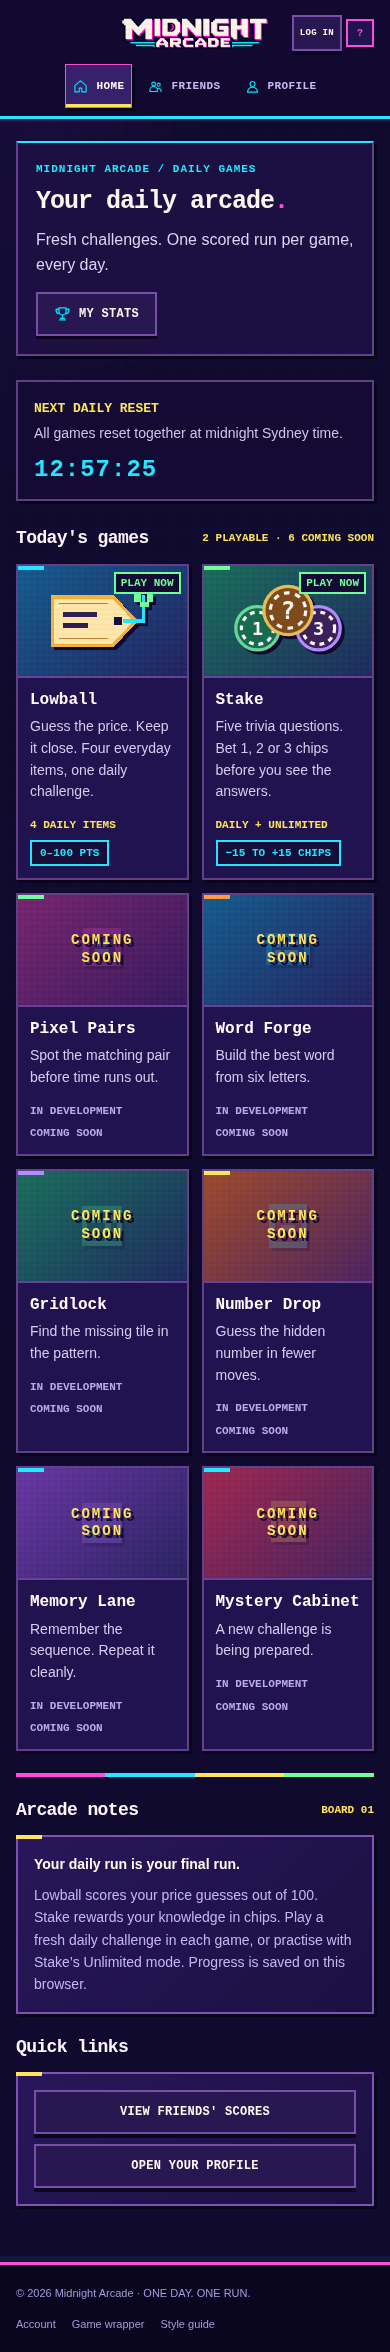
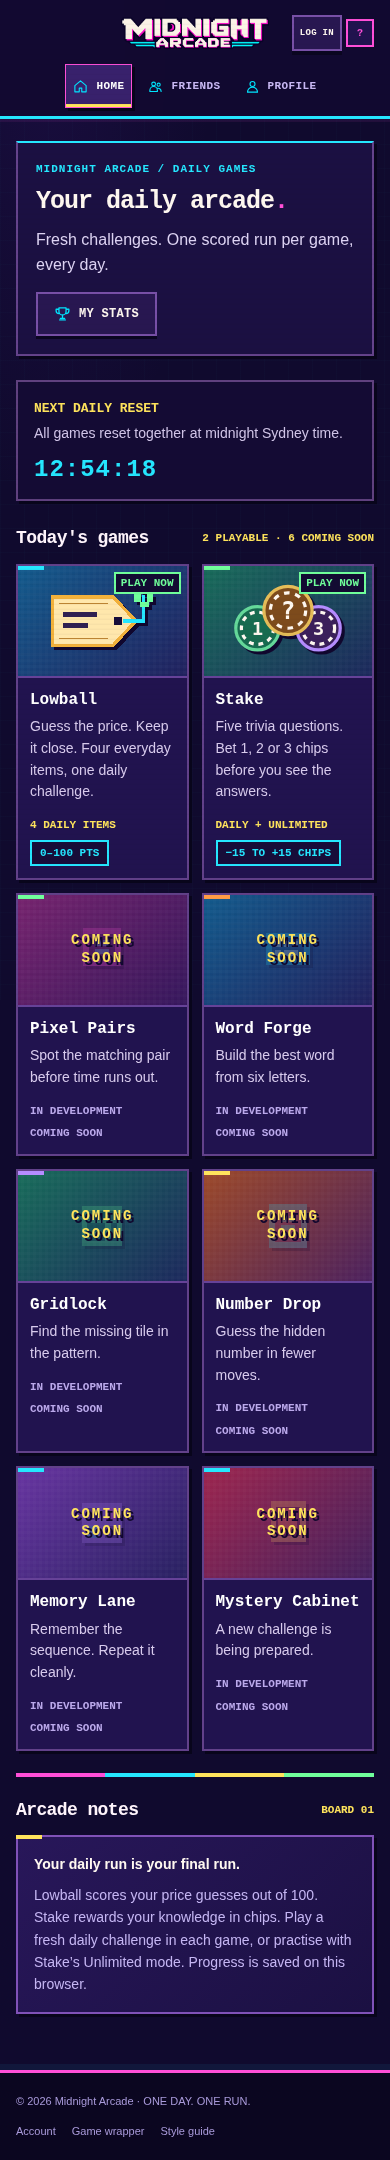
Remove homepage Quick links section

diff --git a/index.html b/index.html
@@ -1,3 +1,3 @@
 <!doctype html><html lang="en-AU"><head><meta charset="utf-8"><meta name="viewport" content="width=device-width,initial-scale=1"><meta name="theme-color" content="#0d0c10"><meta name="description" content="Midnight Arcade daily puzzle arcade. One run per game, every day."><title>Today’s runs · Midnight Arcade</title><link rel="icon" type="image/png" href="assets/midnight-moon-icon.png"><link rel="stylesheet" href="styles.css"><script defer src="daily-clock.js"></script></head><body class="home-page"><header class="site-header"><div class="wrap header-inner"><nav class="nav" aria-label="Main navigation"><a href="index.html" aria-current="page"><img src="assets/icons/home.svg" alt="">Home</a><a href="friends.html"><img src="assets/icons/friends.svg" alt="">Friends</a><a href="profile.html"><img src="assets/icons/profile.svg" alt="">Profile</a></nav><a class="brand" href="index.html"><span class="brand-logo" role="img" aria-label="Midnight Arcade"><img class="brand-logo-art" src="assets/cabinet-badge-logo.png" alt="" width="2172" height="724"></span></a><div class="header-user"><a class="button secondary small" href="login.html">Log in</a><div class="avatar" aria-label="Guest profile">?</div></div></div></header><main class="page"><div class="wrap"><section class="home-intro" aria-labelledby="home-title"><div><p class="eyebrow">MIDNIGHT ARCADE / DAILY GAMES</p><h1 id="home-title">Your daily arcade<span class="pink-text">.</span></h1><p class="home-intro-copy">Fresh challenges. One scored run per game, every day.</p></div><a class="button secondary" href="profile.html"><img src="assets/icons/trophy.svg" width="17" alt=""> My stats</a></section>
 <section class="reset-bar home-reset" aria-label="Universal daily reset"><div><strong>NEXT DAILY RESET</strong><p>All games reset together at midnight Sydney time.</p></div><strong id="daily-reset-countdown" data-daily-countdown role="timer" aria-label="Time until the next daily reset" aria-live="off">--:--:--</strong></section>
-<div class="section-head"><h2>Today's games</h2><span class="section-meta">2 PLAYABLE · 6 COMING SOON</span></div><section class="game-grid" id="daily-games" aria-label="Daily games"><a class="game-card panel card-lowball" href="games/lowball/index.html" aria-label="Lowball: Play now"><div class="game-art art-blue"><svg xmlns="http://www.w3.org/2000/svg" viewBox="0 0 160 112" shape-rendering="crispEdges" aria-hidden="true"><path d="M18 26h76l28 30-28 30H18z" fill="#ffe7ac" stroke="#f2b13b" stroke-width="4"/><path d="M27 34h61M27 78h61" stroke="#bd8532" stroke-width="2"/><rect x="32" y="45" width="42" height="6" fill="#302052"/><rect x="32" y="59" width="30" height="6" fill="#302052"/><rect x="95" y="51" width="10" height="10" fill="#160d3a"/><path d="M106 56h26V24" fill="none" stroke="#25e7ff" stroke-width="4"/><path d="M127 16h12v6h-12zM136 22h8v10h-8zM127 32h12v6h-12zM120 22h8v10h-8z" fill="#70ff9b"/></svg><span class="card-status live">PLAY NOW</span></div><div class="game-card-content"><h3>Lowball</h3><p>Guess the price. Keep it close. Four everyday items, one daily challenge.</p><div class="game-meta"><span class="score">4 DAILY ITEMS</span><span class="score-badge tier-good">0–100 PTS</span></div></div></a><a class="game-card panel card-stake" href="games/stake/index.html" aria-label="Stake: Play now"><div class="game-art art-green"><svg xmlns="http://www.w3.org/2000/svg" viewBox="0 0 160 112" aria-hidden="true"><g stroke-width="4"><circle cx="42" cy="65" r="27" fill="#176b50" stroke="#65d99a"/><circle cx="42" cy="65" r="20" fill="none" stroke="#fff8f0" stroke-dasharray="6 6"/><circle cx="118" cy="65" r="27" fill="#3b205b" stroke="#b58cff"/><circle cx="118" cy="65" r="20" fill="none" stroke="#fff8f0" stroke-dasharray="6 6"/><circle cx="80" cy="43" r="30" fill="#7d4b1c" stroke="#e6bd58"/><circle cx="80" cy="43" r="22" fill="none" stroke="#fff8f0" stroke-dasharray="7 7"/></g><g fill="#fff8f0" font-family="monospace" font-weight="bold" text-anchor="middle"><text x="42" y="73" font-size="23">1</text><text x="118" y="73" font-size="23">3</text><text x="80" y="53" font-size="30">?</text></g></svg><span class="card-status live">PLAY NOW</span></div><div class="game-card-content"><h3>Stake</h3><p>Five trivia questions. Bet 1, 2 or 3 chips before you see the answers.</p><div class="game-meta"><span class="score">DAILY + UNLIMITED</span><span class="score-badge tier-good">−15 TO +15 CHIPS</span></div></div></a><a class="game-card panel card-coming-soon" href="games/pixel-pairs/index.html" aria-label="Pixel Pairs: Coming soon — preview game layout"><div class="game-art art-pink"><svg xmlns="http://www.w3.org/2000/svg" viewBox="0 0 96 96" shape-rendering="crispEdges"><rect x="22" y="18" width="52" height="52" fill="#ff4fd8"/><rect x="30" y="26" width="36" height="36" fill="#160d3a"/><path d="M38 34h8v8h-8zM50 34h8v8h-8zM38 46h20v8H38z" fill="#25e7ff"/></svg><span class="coming-soon-art">COMING<br>SOON</span></div><div class="game-card-content"><h3>Pixel Pairs</h3><p>Spot the matching pair before time runs out.</p><div class="game-meta"><span>IN DEVELOPMENT</span><span>COMING SOON</span></div></div></a><a class="game-card panel card-coming-soon" href="games/word-forge/index.html" aria-label="Word Forge: Coming soon — preview game layout"><div class="game-art art-blue"><svg xmlns="http://www.w3.org/2000/svg" viewBox="0 0 96 96" shape-rendering="crispEdges"><rect x="18" y="24" width="60" height="44" fill="#25e7ff"/><rect x="26" y="32" width="44" height="28" fill="#113c76"/><path d="M30 36h8v8h-8zM42 36h8v8h-8zM54 36h8v8h-8zM30 48h8v8h-8zM42 48h20v8H42z" fill="#fff8f0"/></svg><span class="coming-soon-art">COMING<br>SOON</span></div><div class="game-card-content"><h3>Word Forge</h3><p>Build the best word from six letters.</p><div class="game-meta"><span>IN DEVELOPMENT</span><span>COMING SOON</span></div></div></a><a class="game-card panel card-coming-soon" href="games/gridlock/index.html" aria-label="Gridlock: Coming soon — preview game layout"><div class="game-art art-green"><svg xmlns="http://www.w3.org/2000/svg" viewBox="0 0 96 96" shape-rendering="crispEdges"><rect x="20" y="20" width="56" height="56" fill="#70ff9b"/><path d="M28 28h12v12H28zM44 28h24v12H44zM28 44h24v12H28zM60 44h8v24h-8zM28 60h24v8H28z" fill="#11554b"/></svg><span class="coming-soon-art">COMING<br>SOON</span></div><div class="game-card-content"><h3>Gridlock</h3><p>Find the missing tile in the pattern.</p><div class="game-meta"><span>IN DEVELOPMENT</span><span>COMING SOON</span></div></div></a><a class="game-card panel card-coming-soon" href="games/number-drop/index.html" aria-label="Number Drop: Coming soon — preview game layout"><div class="game-art art-orange"><svg xmlns="http://www.w3.org/2000/svg" viewBox="0 0 96 96" shape-rendering="crispEdges"><rect x="22" y="18" width="52" height="60" fill="#25e7ff"/><rect x="30" y="26" width="36" height="44" fill="#6d2a7c"/><path d="M38 34h8v8h-8zM50 34h8v8h-8zM38 46h20v8H38zM38 58h8v4h-8z" fill="#25e7ff"/></svg><span class="coming-soon-art">COMING<br>SOON</span></div><div class="game-card-content"><h3>Number Drop</h3><p>Guess the hidden number in fewer moves.</p><div class="game-meta"><span>IN DEVELOPMENT</span><span>COMING SOON</span></div></div></a><a class="game-card panel card-coming-soon" href="games/memory-lane/index.html" aria-label="Memory Lane: Coming soon — preview game layout"><div class="game-art art-purple"><svg xmlns="http://www.w3.org/2000/svg" viewBox="0 0 96 96" shape-rendering="crispEdges"><rect x="20" y="20" width="56" height="56" fill="#b58cff"/><rect x="28" y="28" width="16" height="16" fill="#25114f"/><rect x="52" y="28" width="16" height="16" fill="#ff4fd8"/><rect x="28" y="52" width="16" height="16" fill="#25e7ff"/><rect x="52" y="52" width="16" height="16" fill="#25114f"/></svg><span class="coming-soon-art">COMING<br>SOON</span></div><div class="game-card-content"><h3>Memory Lane</h3><p>Remember the sequence. Repeat it cleanly.</p><div class="game-meta"><span>IN DEVELOPMENT</span><span>COMING SOON</span></div></div></a><a class="game-card panel card-coming-soon" href="games/mystery-cabinet/index.html" aria-label="Mystery Cabinet: Coming soon — preview game layout"><div class="game-art art-red"><svg xmlns="http://www.w3.org/2000/svg" viewBox="0 0 96 96" shape-rendering="crispEdges"><rect x="24" y="18" width="48" height="56" fill="#ffe45c"/><rect x="32" y="26" width="32" height="40" fill="#160d3a"/><path d="M38 42v-6a9 9 0 0 1 18 0v6M34 42h26v18H34z" fill="#ff9c45"/></svg><span class="coming-soon-art">COMING<br>SOON</span></div><div class="game-card-content"><h3>Mystery Cabinet</h3><p>A new challenge is being prepared.</p><div class="game-meta"><span>IN DEVELOPMENT</span><span>COMING SOON</span></div></div></a></section><div class="pixel-rule"></div><section class="two-col"><div><div class="section-head" style="margin-top:0"><h2>Arcade notes</h2><span class="section-meta">BOARD 01</span></div><div class="panel panel-pad"><p style="color:var(--text);font-weight:700;margin-bottom:8px">Your daily run is your final run.</p><p style="font-size:14px;margin:0">Lowball scores your price guesses out of 100. Stake rewards your knowledge in chips. Play a fresh daily challenge in each game, or practise with Stake’s Unlimited mode. Progress is saved on this browser.</p></div></div><div><div class="section-head" style="margin-top:0"><h2>Quick links</h2></div><div class="panel panel-pad" style="display:grid;gap:10px"><a class="button secondary" href="friends.html">View friends' scores</a><a class="button secondary" href="profile.html">Open your profile</a></div></div></section></div></main><footer class="site-footer"><div class="wrap footer-inner"><span>© 2026 Midnight Arcade · ONE DAY. ONE RUN.</span><div class="footer-links"><a href="login.html">Account</a><a href="game.html">Game wrapper</a><a href="style-guide.html">Style guide</a></div></div></footer></body></html>
+<div class="section-head"><h2>Today's games</h2><span class="section-meta">2 PLAYABLE · 6 COMING SOON</span></div><section class="game-grid" id="daily-games" aria-label="Daily games"><a class="game-card panel card-lowball" href="games/lowball/index.html" aria-label="Lowball: Play now"><div class="game-art art-blue"><svg xmlns="http://www.w3.org/2000/svg" viewBox="0 0 160 112" shape-rendering="crispEdges" aria-hidden="true"><path d="M18 26h76l28 30-28 30H18z" fill="#ffe7ac" stroke="#f2b13b" stroke-width="4"/><path d="M27 34h61M27 78h61" stroke="#bd8532" stroke-width="2"/><rect x="32" y="45" width="42" height="6" fill="#302052"/><rect x="32" y="59" width="30" height="6" fill="#302052"/><rect x="95" y="51" width="10" height="10" fill="#160d3a"/><path d="M106 56h26V24" fill="none" stroke="#25e7ff" stroke-width="4"/><path d="M127 16h12v6h-12zM136 22h8v10h-8zM127 32h12v6h-12zM120 22h8v10h-8z" fill="#70ff9b"/></svg><span class="card-status live">PLAY NOW</span></div><div class="game-card-content"><h3>Lowball</h3><p>Guess the price. Keep it close. Four everyday items, one daily challenge.</p><div class="game-meta"><span class="score">4 DAILY ITEMS</span><span class="score-badge tier-good">0–100 PTS</span></div></div></a><a class="game-card panel card-stake" href="games/stake/index.html" aria-label="Stake: Play now"><div class="game-art art-green"><svg xmlns="http://www.w3.org/2000/svg" viewBox="0 0 160 112" aria-hidden="true"><g stroke-width="4"><circle cx="42" cy="65" r="27" fill="#176b50" stroke="#65d99a"/><circle cx="42" cy="65" r="20" fill="none" stroke="#fff8f0" stroke-dasharray="6 6"/><circle cx="118" cy="65" r="27" fill="#3b205b" stroke="#b58cff"/><circle cx="118" cy="65" r="20" fill="none" stroke="#fff8f0" stroke-dasharray="6 6"/><circle cx="80" cy="43" r="30" fill="#7d4b1c" stroke="#e6bd58"/><circle cx="80" cy="43" r="22" fill="none" stroke="#fff8f0" stroke-dasharray="7 7"/></g><g fill="#fff8f0" font-family="monospace" font-weight="bold" text-anchor="middle"><text x="42" y="73" font-size="23">1</text><text x="118" y="73" font-size="23">3</text><text x="80" y="53" font-size="30">?</text></g></svg><span class="card-status live">PLAY NOW</span></div><div class="game-card-content"><h3>Stake</h3><p>Five trivia questions. Bet 1, 2 or 3 chips before you see the answers.</p><div class="game-meta"><span class="score">DAILY + UNLIMITED</span><span class="score-badge tier-good">−15 TO +15 CHIPS</span></div></div></a><a class="game-card panel card-coming-soon" href="games/pixel-pairs/index.html" aria-label="Pixel Pairs: Coming soon — preview game layout"><div class="game-art art-pink"><svg xmlns="http://www.w3.org/2000/svg" viewBox="0 0 96 96" shape-rendering="crispEdges"><rect x="22" y="18" width="52" height="52" fill="#ff4fd8"/><rect x="30" y="26" width="36" height="36" fill="#160d3a"/><path d="M38 34h8v8h-8zM50 34h8v8h-8zM38 46h20v8H38z" fill="#25e7ff"/></svg><span class="coming-soon-art">COMING<br>SOON</span></div><div class="game-card-content"><h3>Pixel Pairs</h3><p>Spot the matching pair before time runs out.</p><div class="game-meta"><span>IN DEVELOPMENT</span><span>COMING SOON</span></div></div></a><a class="game-card panel card-coming-soon" href="games/word-forge/index.html" aria-label="Word Forge: Coming soon — preview game layout"><div class="game-art art-blue"><svg xmlns="http://www.w3.org/2000/svg" viewBox="0 0 96 96" shape-rendering="crispEdges"><rect x="18" y="24" width="60" height="44" fill="#25e7ff"/><rect x="26" y="32" width="44" height="28" fill="#113c76"/><path d="M30 36h8v8h-8zM42 36h8v8h-8zM54 36h8v8h-8zM30 48h8v8h-8zM42 48h20v8H42z" fill="#fff8f0"/></svg><span class="coming-soon-art">COMING<br>SOON</span></div><div class="game-card-content"><h3>Word Forge</h3><p>Build the best word from six letters.</p><div class="game-meta"><span>IN DEVELOPMENT</span><span>COMING SOON</span></div></div></a><a class="game-card panel card-coming-soon" href="games/gridlock/index.html" aria-label="Gridlock: Coming soon — preview game layout"><div class="game-art art-green"><svg xmlns="http://www.w3.org/2000/svg" viewBox="0 0 96 96" shape-rendering="crispEdges"><rect x="20" y="20" width="56" height="56" fill="#70ff9b"/><path d="M28 28h12v12H28zM44 28h24v12H44zM28 44h24v12H28zM60 44h8v24h-8zM28 60h24v8H28z" fill="#11554b"/></svg><span class="coming-soon-art">COMING<br>SOON</span></div><div class="game-card-content"><h3>Gridlock</h3><p>Find the missing tile in the pattern.</p><div class="game-meta"><span>IN DEVELOPMENT</span><span>COMING SOON</span></div></div></a><a class="game-card panel card-coming-soon" href="games/number-drop/index.html" aria-label="Number Drop: Coming soon — preview game layout"><div class="game-art art-orange"><svg xmlns="http://www.w3.org/2000/svg" viewBox="0 0 96 96" shape-rendering="crispEdges"><rect x="22" y="18" width="52" height="60" fill="#25e7ff"/><rect x="30" y="26" width="36" height="44" fill="#6d2a7c"/><path d="M38 34h8v8h-8zM50 34h8v8h-8zM38 46h20v8H38zM38 58h8v4h-8z" fill="#25e7ff"/></svg><span class="coming-soon-art">COMING<br>SOON</span></div><div class="game-card-content"><h3>Number Drop</h3><p>Guess the hidden number in fewer moves.</p><div class="game-meta"><span>IN DEVELOPMENT</span><span>COMING SOON</span></div></div></a><a class="game-card panel card-coming-soon" href="games/memory-lane/index.html" aria-label="Memory Lane: Coming soon — preview game layout"><div class="game-art art-purple"><svg xmlns="http://www.w3.org/2000/svg" viewBox="0 0 96 96" shape-rendering="crispEdges"><rect x="20" y="20" width="56" height="56" fill="#b58cff"/><rect x="28" y="28" width="16" height="16" fill="#25114f"/><rect x="52" y="28" width="16" height="16" fill="#ff4fd8"/><rect x="28" y="52" width="16" height="16" fill="#25e7ff"/><rect x="52" y="52" width="16" height="16" fill="#25114f"/></svg><span class="coming-soon-art">COMING<br>SOON</span></div><div class="game-card-content"><h3>Memory Lane</h3><p>Remember the sequence. Repeat it cleanly.</p><div class="game-meta"><span>IN DEVELOPMENT</span><span>COMING SOON</span></div></div></a><a class="game-card panel card-coming-soon" href="games/mystery-cabinet/index.html" aria-label="Mystery Cabinet: Coming soon — preview game layout"><div class="game-art art-red"><svg xmlns="http://www.w3.org/2000/svg" viewBox="0 0 96 96" shape-rendering="crispEdges"><rect x="24" y="18" width="48" height="56" fill="#ffe45c"/><rect x="32" y="26" width="32" height="40" fill="#160d3a"/><path d="M38 42v-6a9 9 0 0 1 18 0v6M34 42h26v18H34z" fill="#ff9c45"/></svg><span class="coming-soon-art">COMING<br>SOON</span></div><div class="game-card-content"><h3>Mystery Cabinet</h3><p>A new challenge is being prepared.</p><div class="game-meta"><span>IN DEVELOPMENT</span><span>COMING SOON</span></div></div></a></section><div class="pixel-rule"></div><section class="arcade-notes"><div><div class="section-head" style="margin-top:0"><h2>Arcade notes</h2><span class="section-meta">BOARD 01</span></div><div class="panel panel-pad"><p style="color:var(--text);font-weight:700;margin-bottom:8px">Your daily run is your final run.</p><p style="font-size:14px;margin:0">Lowball scores your price guesses out of 100. Stake rewards your knowledge in chips. Play a fresh daily challenge in each game, or practise with Stake’s Unlimited mode. Progress is saved on this browser.</p></div></div></section></div></main><footer class="site-footer"><div class="wrap footer-inner"><span>© 2026 Midnight Arcade · ONE DAY. ONE RUN.</span><div class="footer-links"><a href="login.html">Account</a><a href="game.html">Game wrapper</a><a href="style-guide.html">Style guide</a></div></div></footer></body></html>
